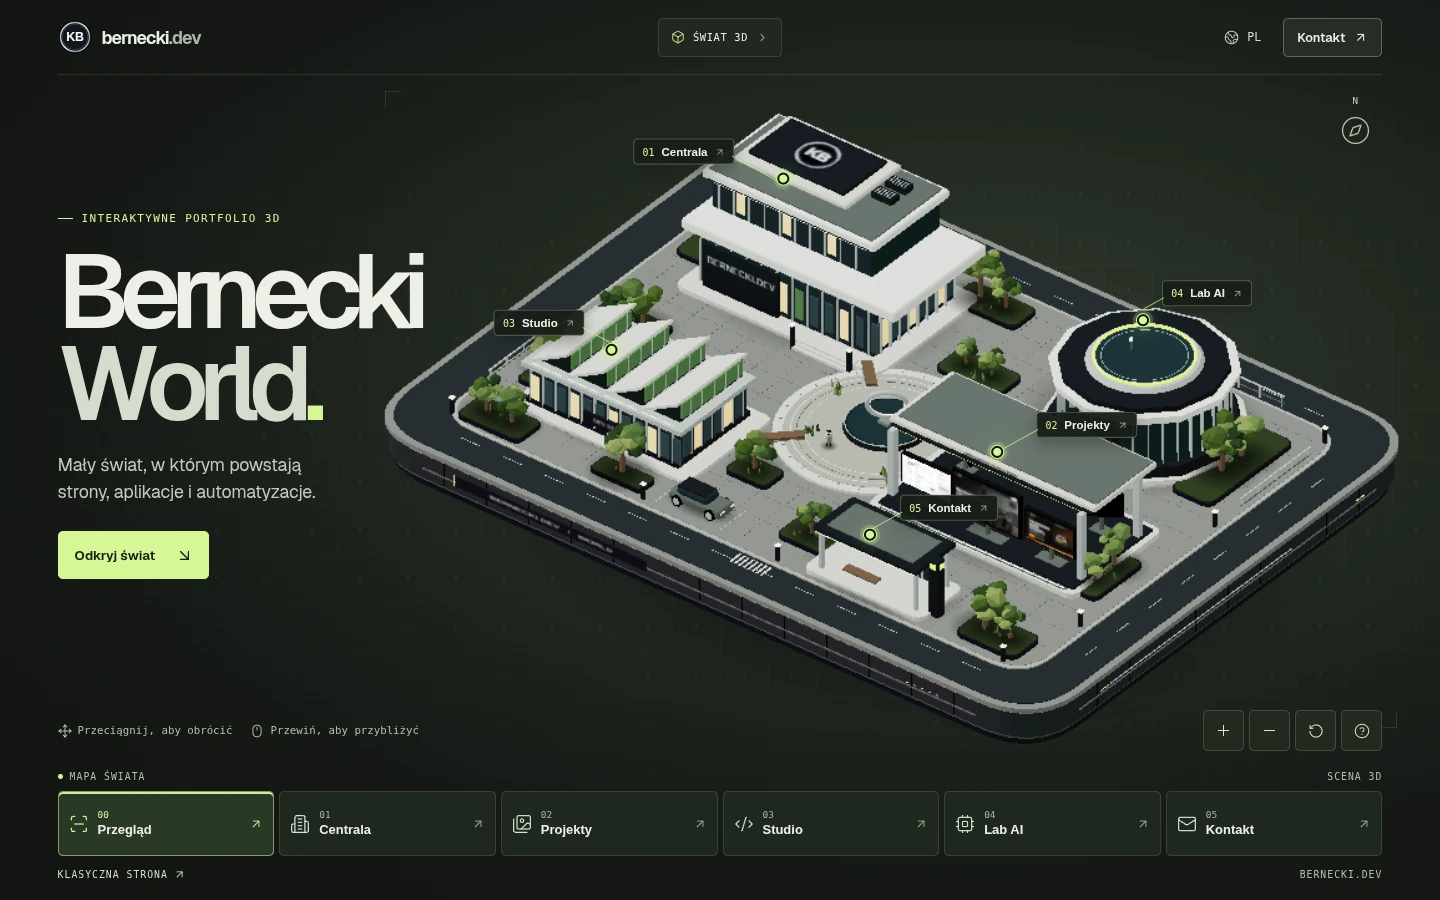
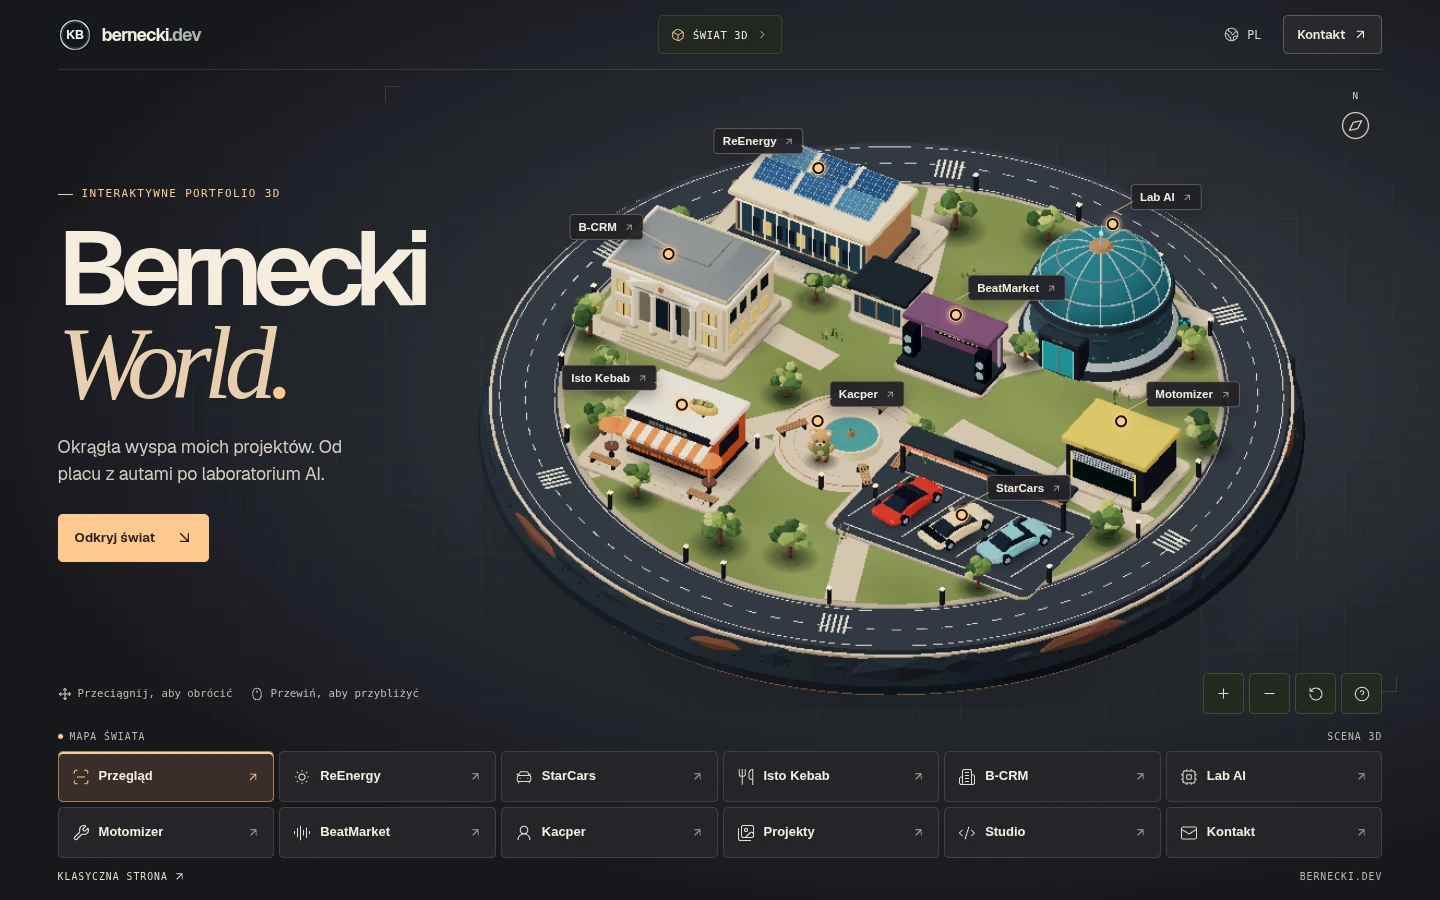
Document and capture the verified round-island release

diff --git a/QUALITY_GATE.md b/QUALITY_GATE.md
@@ -1,42 +1,41 @@
 # Bernecki World — bramka jakości
 
-**90/100. Wewnętrzny próg jakości został osiągnięty.** Ocena obejmuje build produkcyjny, testy funkcjonalne, pomiary w przeglądarkach i niezależny przegląd końcowych kadrów.
+**92/100.** Ocena obejmuje przebudowaną, okrągłą wyspę. W galerii zrzutów są kadry ze wszystkich sześciu rozdzielczości oraz zbliżenia miejsc. [Kadry z buildu produkcyjnego](docs/world/README.md#kadry-z-buildu-produkcyjnego)
 
 | Obszar | Ocena | Podstawa |
 | --- | ---: | --- |
-| Kierunek artystyczny | 14/15 | Spójne kadry we wszystkich sześciu rozdzielczościach, znak KB, grafit, srebro i światło. |
-| Efekt pierwszego wejścia | 13/15 | Duża makieta i typografia, odsłonięcie znaku i wejściowy ruch kamery. W profilu programowym część detali jest uproszczona. |
-| Świat 3D | 13/15 | Pięć różnych budynków, dziedziniec, oświetlenie, samochód, postać i pięć ekranów z prawdziwymi realizacjami. |
-| Animacja i kamera | 13/15 | Kamera wraca do tego samego kadru po obrocie. Zbliżenia pokazują budynki i monitory. Ruch w środowisku programowym ma widoczne skoki. |
-| Interakcje i UX | 10/10 | Interakcje myszy, dotyku i klawiatury, przewidywalny fokus, mapa, wybór trybu i ścieżka kontaktu przeszły testy. |
-| Mobile | 9/10 | Obrót dotykiem, pinch, projekty, kontakt i widok statyczny. Przy 320 px pełna mapa wymaga przewinięcia. |
-| Wydajność i stabilność | 8/10 | Rozdzielone ładowanie, wstępnie obliczone oświetlenie i adaptacyjna rozdzielczość. W Chromium mediana wzrosła z 4,0 do 12,5 FPS na desktopie bez GPU i z 16,0 do 28,0 FPS w profilu Pixel 7. Sprawdzono przejście do widoku statycznego po utracie WebGL. |
-| Oryginalność i marka | 5/5 | Oryginalna proceduralna makieta z istniejącym znakiem KB oraz materiałami właściciela. |
-| Funkcjonalność biznesowa | 5/5 | Pięć rzeczywistych projektów, potwierdzony stos technologiczny, linki do ofert, projektów i kontaktu. |
+| Kierunek artystyczny | 14/15 | Okrągła podstawa, kamień, asfalt, metal i ciepłe oznaczenia tworzą spójną makietę. Rozkład miejsc sprawdzono na sześciu rozdzielczościach. |
+| Efekt pierwszego wejścia | 14/15 | Pierwszy kadr pokazuje całą wyspę. Panele słoneczne, auta, budka i kopuła są czytelne już z góry. |
+| Świat 3D | 15/15 | Sześć projektów ma osobne modele i kadry. Laboratorium i poruszający się pluszak mają własne miejsca. Każdą główną lokalizację można otworzyć bezpośrednio z modelu. |
+| Animacja i kamera | 13/15 | Osobne ujęcia projektów, reset do widoku wyspy i śledzenie pozycji pluszaka sprawdzono w przeglądarce. Ruch na desktopie bez GPU jest skokowy. |
+| Interakcje i UX | 10/10 | Kliknięcia modeli, etykiety, mapa, skróty klawiaturowe, karty i wybór sposobu przeglądania działają w testach. |
+| Mobile | 9/10 | Obrót dotykiem, pinch, otwieranie kart i widok statyczny sprawdzono. Przy szerokości 320 px dalsza część mapy wymaga przewinięcia. |
+| Wydajność i stabilność | 7/10 | Jedna tekstura szyldów, scalone powierzchnie, niższa rozdzielczość podczas ruchu na wolnym sprzęcie i pełny widok statyczny. Profil Pixel 7 osiągnął około 25 FPS, a profil iPhone 13 około 54 FPS. |
+| Oryginalność i marka | 5/5 | Autorska makieta z rozpoznawalnymi miejscami dla projektów i pluszową postacią autora. |
+| Funkcjonalność biznesowa | 5/5 | Sześć rzeczywistych projektów, potwierdzone opisy, materiały i linki. ReEnergy ma osobne ścieżki do strony, kampanii i CRM. |
 
-Niezależny przegląd trzeciej iteracji przyznał 81/90 punktów w obszarach innych niż wydajność. Po nim skorygowano pozycję opisu na 1024 px, odstęp pierwszej etykiety na 320 px i dostępne nazwy przycisków w trzech wersjach językowych. Po optymalizacji niezależny przegląd potwierdził zachowanie kompozycji, czytelności ekranów i położenia etykiet. Profil programowy ma jaśniejsze powierzchnie oraz łagodniejsze cienie. [Kadry z buildu produkcyjnego](docs/world/README.md#kadry-z-buildu-produkcyjnego)
+Niezależny przegląd porównał makietę, kadry poszczególnych miejsc i telefon. Po przeglądzie skorygowano prowadzenie kamery za pluszakiem i położenie etykiet mobilnych oraz sprawdzono nową grafikę statyczną.
 
 ## Weryfikacja
 
-- Build produkcyjny, TypeScript, 354 testy Vitest oraz kontrola PL/EN przeszły. ESLint zgłosił 0 błędów i 15 wcześniejszych ostrzeżeń poza zmianą.
-- Playwright w Chromium potwierdził mysz, powiększanie, reset, kliknięcie budynku i monitora B-CRM, ruch postaci klawiaturą, pięć kart projektów, ich zdjęcia i linki, fokus po zamykaniu panelu, zmianę PL/EN/UK i zapis preferencji Classic / Interactive.
-- W profilu dotykowym Chromium przeszły obrót i gest pinch. W profilu iPhone 13 silnik WebKit uruchomił scenę i otworzył kartę przez dotyk. Redukcja ruchu, ręczne przełączanie, wyłączony WebGL i wymuszona utrata kontekstu przeszły testy.
-- Test rozdzielczości potwierdził, że profil programowy ogranicza liczbę renderowanych pikseli podczas ruchu, po zatrzymaniu przywraca ostrość, zachowuje obszar klikania i pokazuje ostry obraz przy włączonej redukcji ruchu.
-- Axe 4 sprawdził zasady WCAG 2.1 A i AA w przeglądzie każdej wersji językowej i zwrócił 0 naruszeń. Pełny przebieg desktopowy zakończył się bez błędów konsoli ani nieudanych żądań zasobów.
-- 41 sprawdzonych tras zwróciło HTTP 200, w tym istniejąca strona, oferty, realizacje, kontakt, sitemap, robots i Open Graph. Sprawdzono adresy kanoniczne i wzajemne hreflang. Pięć zewnętrznych adresów realizacji zwróciło HTTP 200.
-- Ścieżka kontaktu linkuje do istniejących formularzy i poczty. Test objął dotarcie do formularza.
+- Build produkcyjny, TypeScript, 355 testów Vitest i weryfikacja PL/EN przeszły. ESLint zgłosił 0 błędów i 15 istniejących ostrzeżeń poza zmianą.
+- Playwright w Chromium sprawdził kliknięcie modeli ośmiu miejsc, mysz, zoom, reset, klawiaturę, położenie i zbliżenie pluszaka po ruchu, galerię i sześć kart, wybór trybu, kontakt, języki PL/EN/UK, dotyk i pinch. Sprawdzono też ponowne uruchomienie oraz przejście do widoku statycznego po utracie WebGL.
+- W profilu iPhone 13 silnik WebKit WPE uruchomił scenę i pozwolił otworzyć projekt dotykiem. Sprawdzono szerokości od 320 do 1920 px i pełny profil renderowania w Chromium. Profil z ograniczoną rozdzielczością wraca do ostrego obrazu po zakończeniu ruchu.
+- Axe sprawdził WCAG 2.1 A i AA w przeglądzie każdego języka i nie wykrył naruszeń. Sprawdzono 41 tras, w tym metadane, adresy kanoniczne, hreflang, sitemap i robots.txt. Sześć zewnętrznych adresów projektów zwróciło HTTP 200.
 
 ## Pomiary
 
-Lokalny build produkcyjny z kodu `f3856b2`, Linux bez udostępnionego GPU, Chromium 156 ze SwiftShader i WebKit WPE 27.2. FPS to mediana sześciu zbliżeń i powrotów, liczona z kolejnych aktualizacji położenia punktu w scenie. Czas pierwszej klatki liczono od nawigacji do pierwszej oznaczonej klatki WebGL. Pomiar porównawczy Chromium wykonano w tej samej sesji na buildzie `52c3ddd`.
+Lokalny build produkcyjny z kodu `27e0ee5`, Linux bez udostępnionego GPU, Chromium 156 ze SwiftShader i WebKit WPE 27.2. FPS to mediana aktualizacji położenia znacznika w sześciu przejściach do Laboratorium AI, ReEnergy, StarCars i z powrotem. Czas pierwszej klatki liczono od nawigacji do pierwszej oznaczonej klatki WebGL.
 
 | Profil | Pierwsza klatka 3D | Mediana podczas ruchu |
 | --- | ---: | ---: |
-| Chromium, 1440 × 900 | 2,82 s | 12,5 FPS |
-| Chromium, Pixel 7 | 1,97 s | 28,0 FPS |
-| WebKit, 1440 × 900 | 3,44 s | 2,7 FPS |
-| WebKit, iPhone 13 | 0,94 s | 56,1 FPS |
+| Chromium, 1440 × 900 | 3,30 s | 6,3 FPS |
+| Chromium, Pixel 7 | 2,10 s | 24,7 FPS |
+| WebKit, 1440 × 900 | 2,61 s | 8,7 FPS |
+| WebKit, iPhone 13 | 1,02 s | 54,4 FPS |
 
-Lighthouse 13.6, symulacja mobilna w Chromium. **Performance 62, Accessibility 100, Best Practices 100, SEO 100.** FCP 0,92 s, LCP 3,28 s, TBT 3,37 s i CLS 0,003. Chromium zarejestrował około 319 kB skompresowanego JavaScriptu i 169 kB obrazów sceny.
+Po ograniczeniu rozdzielczości kamery na wolnych rendererach mediana desktopowego WebKit wzrosła z około 1,6 do 8,7 FPS w tym samym scenariuszu. W Chromium łącznie pobrano około 323 kB skompresowanego JavaScriptu i 190 kB obrazów sceny.
 
-Wyniki dotyczą profili przeglądarek. Płynność na desktopie z fizycznym GPU oraz na fizycznym iPhonie i telefonie z Androidem pozostaje niezweryfikowana. Desktopowy WebKit WPE w tym środowisku osiągnął 2,7 FPS. Widok statyczny zachowuje dostęp do galerii, usług, kontaktu i wyboru trybu.
+Lighthouse 13.6 w symulacji mobilnej dał **60 Performance, 100 Accessibility, 100 Best Practices i 100 SEO**. FCP 0,92 s, LCP 3,62 s, TBT 2,27 s i CLS 0,003.
+
+Wyniki dotyczą profili przeglądarek bez fizycznego GPU. Płynność na komputerze z GPU oraz na fizycznym iPhonie i telefonie z Androidem pozostaje niezweryfikowana. Widok statyczny zachowuje projekty, usługi, kontakt i wybór trybu.

diff --git a/docs/world/README.md b/docs/world/README.md
@@ -2,6 +2,21 @@
 
 Świat jest dostępny pod adresami `/world`, `/en/world` i `/uk/world`. W klasycznej stronie przycisk „Świat 3D” otwiera wybór trybu z dwoma podglądami. Wejście prosto na stronę klasyczną pozostaje dostępne w każdym języku.
 
+## Miejsca na wyspie
+
+| Miejsce | Co otwiera |
+| --- | --- |
+| Centrum fotowoltaiki ReEnergy | Strona firmowa, kampanie Meta Ads i obsługa leadów w CRM |
+| Plac StarCars | Strona importera, kalkulator kosztów i formularze zapytań |
+| Budka Isto Kebab | Strona restauracji, menu i zamówienia |
+| Skarbówka B-CRM | Demo CRM z rolami, leadami i przekazywaniem spraw do realizacji |
+| Laboratorium AI | Wdrożenia AI, automatyzacje i integracje |
+| Warsztat Motomizer | Prezentacja produktu i wariantów |
+| Scena BeatMarket | Platforma producentów i odsłuch beatów |
+| Pluszowy przewodnik Kacper | Informacje o autorze i ścieżka współpracy |
+
+Przyciski na mapie, kliknięcia obiektów i linki `#project-*` prowadzą do tych samych kart i zbliżeń. Etykieta Kacpra śledzi postać podczas poruszania klawiszami W, A, S, D lub kliknięciem alejki na placu.
+
 ## Kadry z buildu produkcyjnego
 
 | Ekran | Zrzut |
@@ -14,13 +29,20 @@
 | 320 × 568 | [Przegląd](screenshots/320x568.webp) |
 
 - [Pełny profil renderowania, 1440 × 900](screenshots/full-quality-1440.webp)
+- [Panele słoneczne i karta ReEnergy](screenshots/reenergy.webp)
 - [Zbliżenie i karta StarCars na komputerze](screenshots/project-1440.webp)
 - [Karta StarCars na telefonie](screenshots/project-390.webp)
+- [Budka Isto Kebab](screenshots/isto-kebab.webp)
+- [Budynek B-CRM](screenshots/b-crm.webp)
+- [Kopuła Laboratorium AI](screenshots/lab.webp)
+- [Warsztat Motomizer](screenshots/motomizer.webp)
+- [Scena BeatMarket](screenshots/beatmarket.webp)
+- [Pluszowy przewodnik](screenshots/hq.webp)
 - [Wybór trybu](screenshots/mode.webp)
 - [Widok po wyłączeniu WebGL](screenshots/fallback.webp)
 - [Profil iPhone 13 w WebKit](screenshots/webkit-iphone.webp)
 
-W przeglądzie na 320 × 568 dolny rząd mapy jest dostępny przy przewijaniu. Przeglądy w tabeli wykonano w Chromium z renderowaniem programowym. Dodatkowy kadr pokazuje pełny profil oświetlenia i geometrii. Kadry mobilne pochodzą z profili przeglądarek.
+Przeglądy w tabeli wykonano w Chromium z renderowaniem programowym. Dodatkowy kadr pokazuje pełny profil oświetlenia i geometrii z wymuszonym profilem w tej samej przeglądarce. Kadry mobilne pochodzą z profili przeglądarek. Przy 320 × 568 druga część mapy jest dostępna przy przewijaniu.
 
 ## Uruchomienie i źródła
 
@@ -29,6 +51,6 @@ npm ci
 npm run dev
 ```
 
-Scena wczytuje się dynamicznie na trasach World. Makietę wyrenderowano z modelu proceduralnego. W profilu programowym oświetlenie powierzchni jest zapisane w geometrii, a rozdzielczość bufora zmniejsza się na czas ruchu kamery. Galeria wykorzystuje oryginalne zrzuty z portfolio i stos technologiczny z istniejących studiów przypadku. Atlas HDR powstał z `RoomEnvironment` Three.js przy rozmiarze ściany 128 px i rozmyciu 0,025 rad. Atlas CubeUV zapisano w WebP z mantysami w RGB i wspólnym wykładnikiem w kanale alfa.
+Scena wczytuje się dynamicznie na trasach World. Okrągła makieta powstaje z modelu proceduralnego Three.js. Wszystkie szyldy korzystają z jednej tekstury, a w profilu programowym statyczne oświetlenie powierzchni jest zapisane w geometrii. Na wolnym sprzęcie rozdzielczość bufora zmniejsza się tylko na czas ruchu kamery. Karty wykorzystują zrzuty i potwierdzony zakres istniejących realizacji. Atlas HDR powstał z `RoomEnvironment` Three.js przy rozmiarze ściany 128 px i rozmyciu 0,025 rad. Atlas CubeUV zapisano w WebP z mantysami w RGB i wspólnym wykładnikiem w kanale alfa.
 
 Sterowanie i ustawienie widoku statycznego są dostępne pod przyciskiem pomocy w scenie. Pełny raport sprawdzeń znajduje się w [QUALITY_GATE.md](../../QUALITY_GATE.md), a aktualny stan wydania w [HEARTBEAT.md](../../HEARTBEAT.md).

diff --git a/HEARTBEAT.md b/HEARTBEAT.md
@@ -1,8 +1,7 @@
 # Bernecki World — stan prac
 
-- Etap — wydanie do przeglądu na `feat/bernecki-world`, w [PR #116](https://github.com/ft4k696bk6-prog/kacper-portfolio/pull/116).
-- Ukończone — makieta z pięcioma strefami, pięć rzeczywistych realizacji, wersje PL/EN/UK, wybór trybu, kontakt, sterowanie i pełny widok statyczny.
-- Testy — build, TypeScript, 354 testy Vitest, Playwright w Chromium i WebKit, 41 odpowiedzi HTTP 200, SEO, trzy przejścia axe i sześć rozdzielczości. [Kadry](docs/world/README.md#kadry-z-buildu-produkcyjnego)
-- Ostatnia zmiana — uproszczono oświetlenie w Chromium z renderowaniem programowym. Rozdzielczość sceny spada podczas ruchu i wraca po zatrzymaniu kamery.
-- Ocena — 90/100. W Chromium bez GPU mediana wzrosła z 4,0 do 12,5 FPS na desktopie i z 16,0 do 28,0 FPS w profilu Pixel 7. [Wyniki](QUALITY_GATE.md)
-- Otwarte — pomiar na desktopie z GPU oraz na fizycznych telefonach. Desktopowy WebKit WPE w laboratorium osiągnął 2,7 FPS.
+- Etap — przebudowana okrągła wyspa po końcowych sprawdzeniach, wydanie do przeglądu na `feat/bernecki-world`. [PR #116](https://github.com/ft4k696bk6-prog/kacper-portfolio/pull/116)
+- Ukończone — dedykowane modele i kadry sześciu projektów, Laboratorium AI, pluszowy przewodnik, PL/EN/UK, przełączanie trybów i widok statyczny.
+- Ostatnia zmiana — scalono szyldy oraz fragmenty pluszaka. Renderer przywraca pełną ostrość, po zatrzymaniu kamery na słabszym sprzęcie.
+- Ocena — 92/100 w wewnętrznej bramce. [Pomiary i testy](QUALITY_GATE.md)
+- Otwarte — pomiary na fizycznych telefonach i komputerze z GPU.
